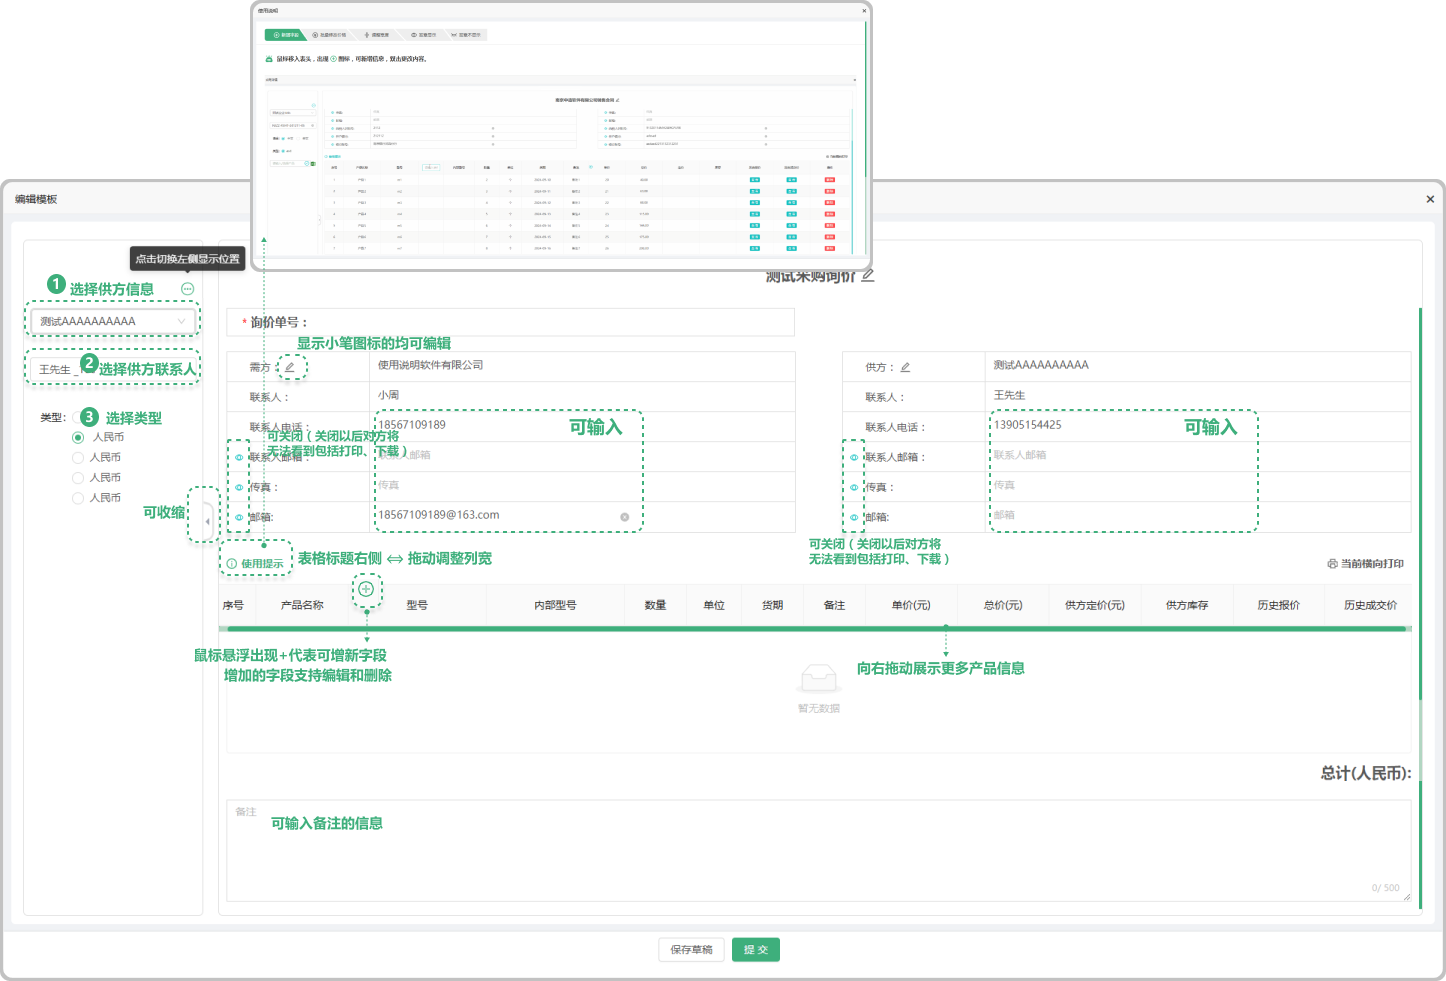
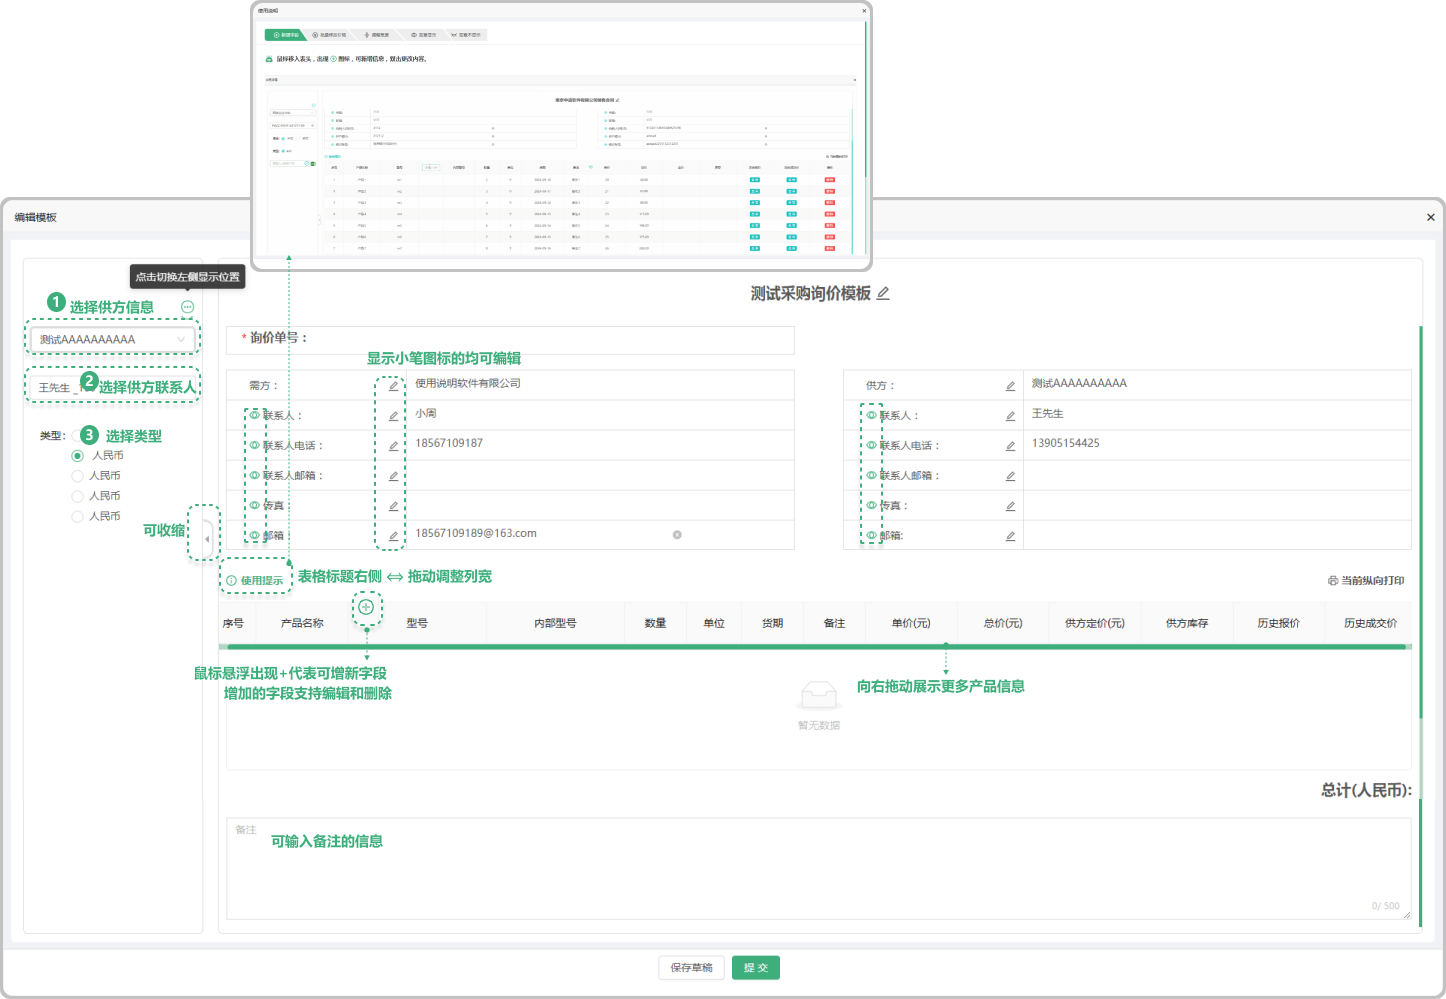
jintianxiugai

diff --git a/docs/采购管理/询价列表.md b/docs/采购管理/询价列表.md
@@ -2,26 +2,37 @@
 
 > "询价列表”位于"销售管理板块，在"询价列表"中新增 "询价单" 
 
-#### 1. 如图所示：
-* 新增询价单：点击新增询价单选择模板（也可不选择直接进入询价单签署）
-* 询价单状态 : 分为”已报价“   “未报价”   "草稿”（可以删除）
-* 未报价 : 新增询价单确认以后界面显示未成交
-* 已报价：新增的询价单会带入到需方哪里，在需方销售部的 “询价单列表进行分发处理以后，显示 “已报价”状态
-* 草稿：新增报检单点击保存草稿（支持删除）
+#### 1.新增询价
+* 新增询价单包括
 
+   -直接新建询价单子
+
+   -选择之前所保存的询价单模板模板
 
 ![如图所示](../file/cg-xjlb1.png)
 
-#### 2. 如图所示："新增询价"
+#### 2.询价单状态
+* 询价单状态 : 分为、已报价、 未报价、草稿 
 
-> "新增询价"位于模板列表中添加的询价模板字段中,创建的模板可直接生成询价单转到采购管理,"询价列表中",可下载打印
+   -未报价 : 新增询价单确认以后界面显示未成交、
 
+   -已报价：新增的询价单会带入到需方哪里，在需方销售部的 “询价单列表进行分发处理以后，显示 “已报价”状态
+
+   -草稿：新增报检单点击保存草稿
+
+#### 2.删除
+* 只有草稿的状态下才能删除
+
+
+#### 3.其他功能
 * 供方信息 : 来源于采购管理,供应商列表中添加的客户信息
 * 供方联系人 : 采购管理,来源于供应商列表中添加了的联系人(可添加多个联系人)
 * 类型 : 来源于财务管理,汇率税率列表中添加的汇率税率信息
 * 选择产品 : 产品来源于所添加供应商公司的产品列表中的产品（可以输入型号创建产品字段）
 * 批量导入：可批量导入产品（先下载模板Excel进行编辑导入即可）
 * 小眼睛图标：指的是页面中在甲乙方列表中的小眼睛图标，默认全展示，可关闭或者打开（如果关闭对方将无法看到这条信息，包括打印和下载都不展示）
+* 小笔图标：傍边带有小笔图标的文字方可编辑
+* 下载图标：点击下载图标可下载当前页面内容
 * 使用提示：点击使用提示可弹出弹窗，在弹窗中显示动图，可切换查看对应功能的使用（新增字段、批量修改价格、调整宽度、签章显示、签章不显示）
 * 历史报价 : 跟这个公司销售过这个产品，如果再次报价就会有之前的报价信息
 * 历史成交价 : 跟这个公司销售过这个产品,成功了以后再次销售会有之前的历史成交价
